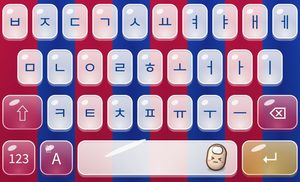
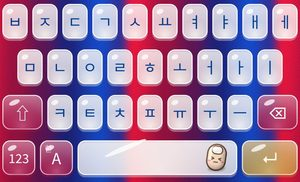
2026.11.12-5 레드 블루 그라데이션 줄무늬
Claude-Session: https://claude.ai/code/session_01GvSCgEXELCVfxACkb9NKF6

diff --git a/App/FingerErrorApp.swift b/App/FingerErrorApp.swift
@@ -96,7 +96,7 @@ struct ContentView: View {
                 }
             }
             .safeAreaInset(edge: .bottom) {
-                Text("버전 2026.11.12-4 (로즈 골드 & 화이트 추가) · 100개마다 리포트 · 한/A 영어 · 테마별 팻핑이 · 기념일").font(.caption2).foregroundStyle(.secondary).padding(4)
+                Text("버전 2026.11.12-5 (레드 블루 그라데이션) · 100개마다 리포트 · 한/A 영어 · 테마별 팻핑이 · 기념일").font(.caption2).foregroundStyle(.secondary).padding(4)
             }
             .navigationTitle("핑거에러")
             // 3D 젤리: 크림 배경 + 복숭아 포인트
